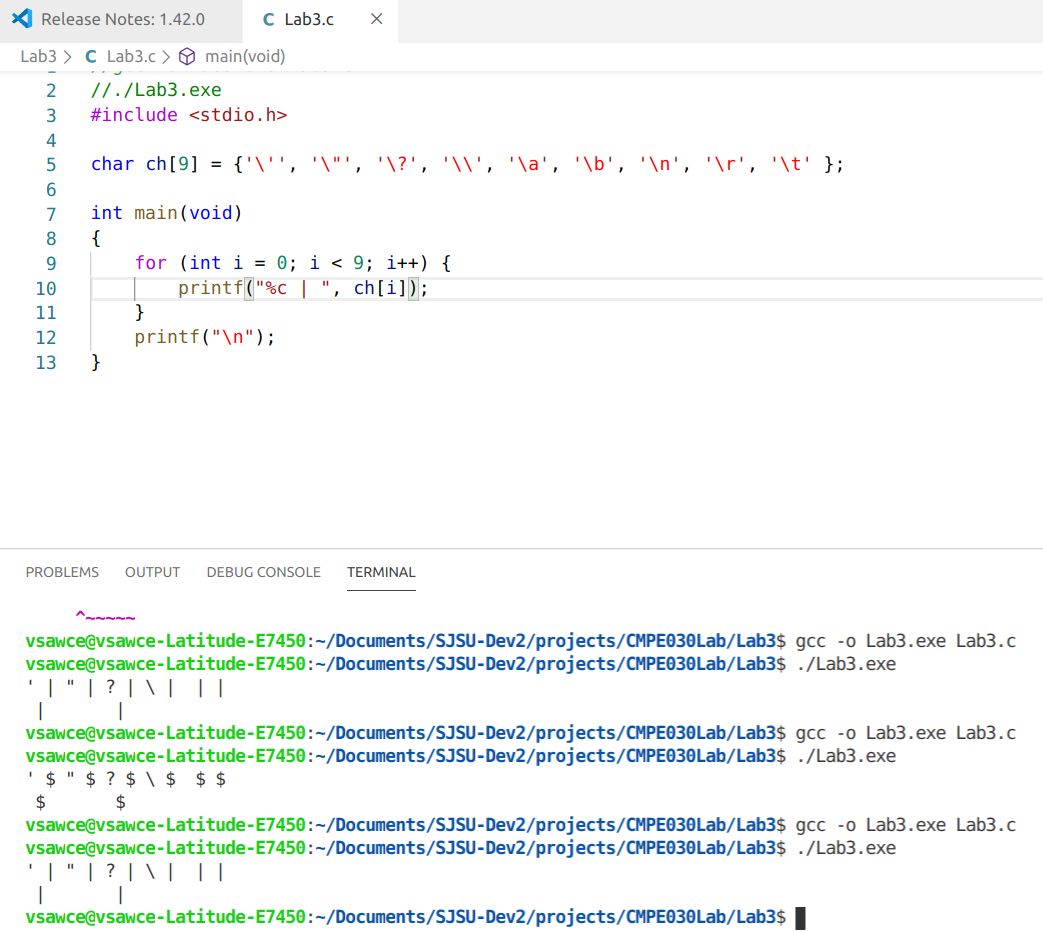
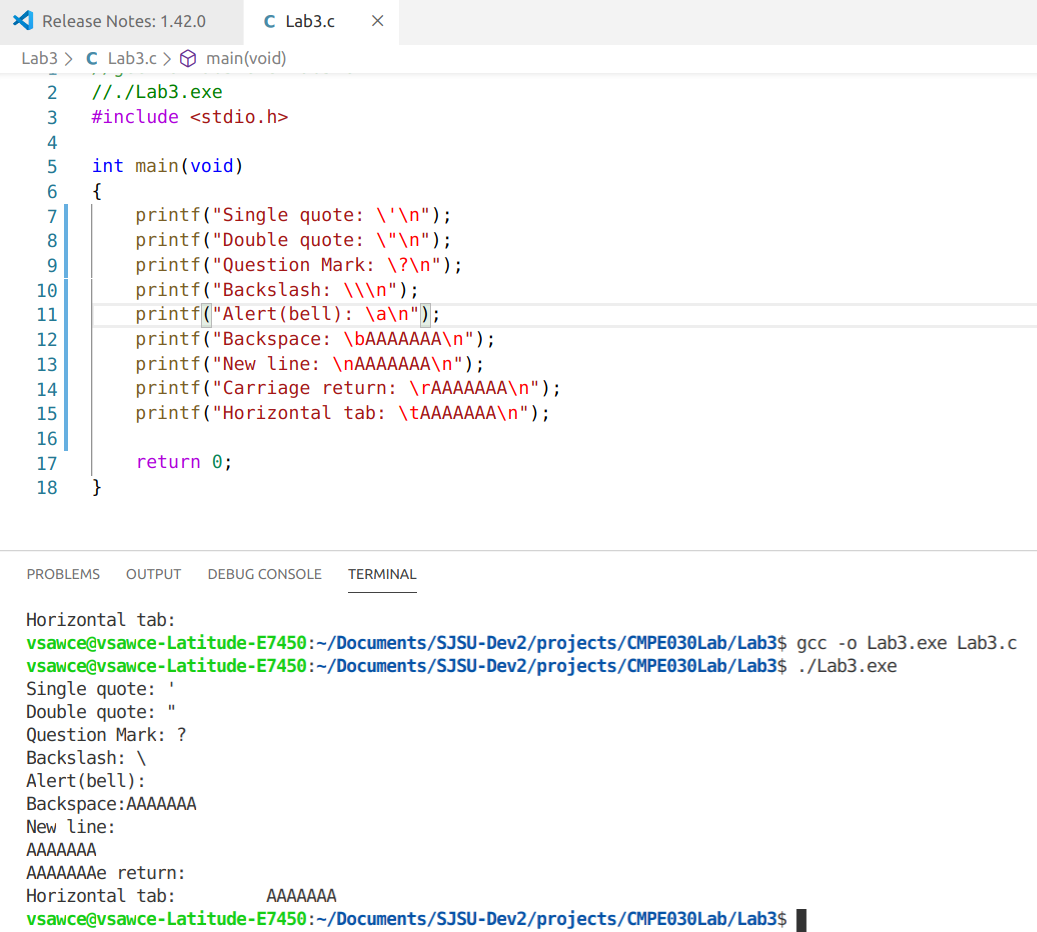
Fixed #8

diff --git a/Lab3/Lab3.c b/Lab3/Lab3.c
@@ -4,7 +4,15 @@
 
 int main(void)
 {
-    short i;
-    printf("Storage size: %ld \n", sizeof(i));
+    printf("Single quote: \'\n");
+    printf("Double quote: \"\n");
+    printf("Question Mark: \?\n");
+    printf("Backslash: \\\n");
+    printf("Alert(bell): \a\n");
+    printf("Backspace: \bAAAAAAA\n");
+    printf("New line: \nAAAAAAA\n");
+    printf("Carriage return: \rAAAAAAA\n");
+    printf("Horizontal tab: \tAAAAAAA\n");
+    
     return 0;
 }
